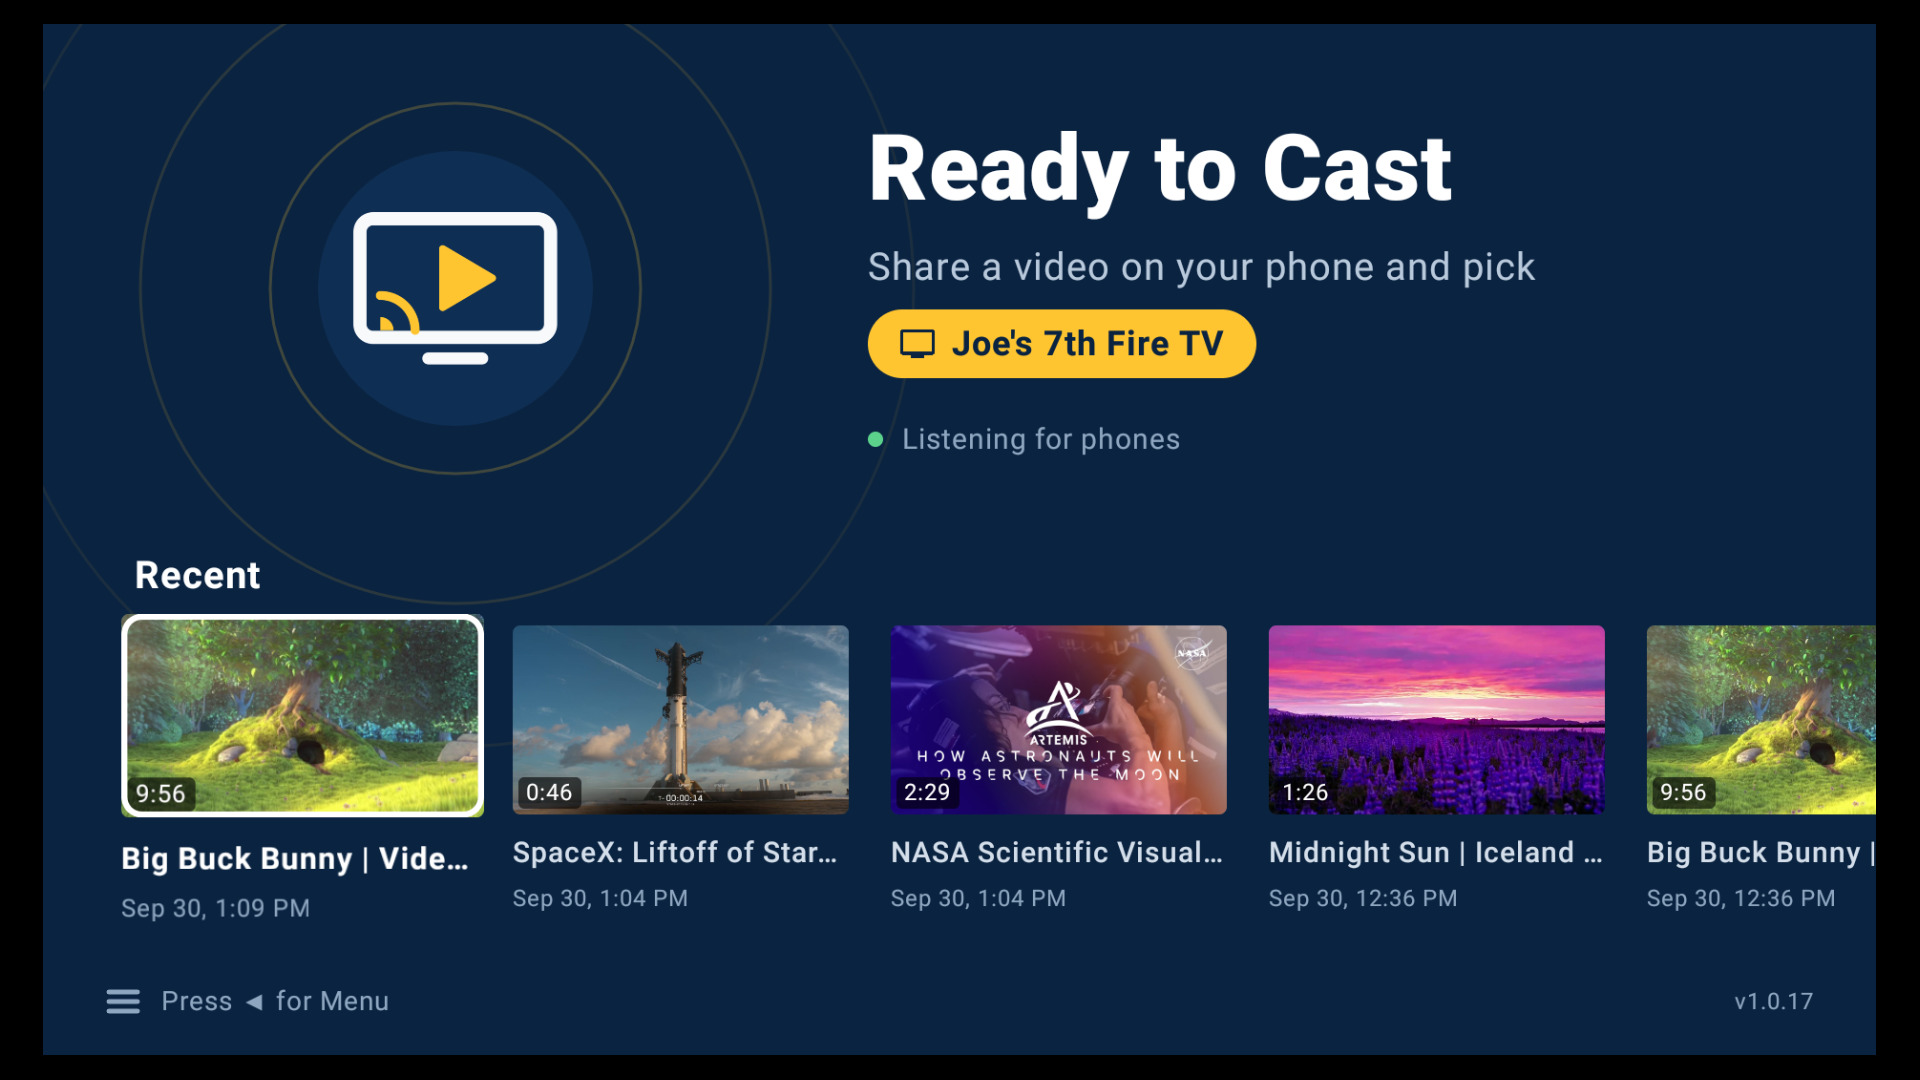
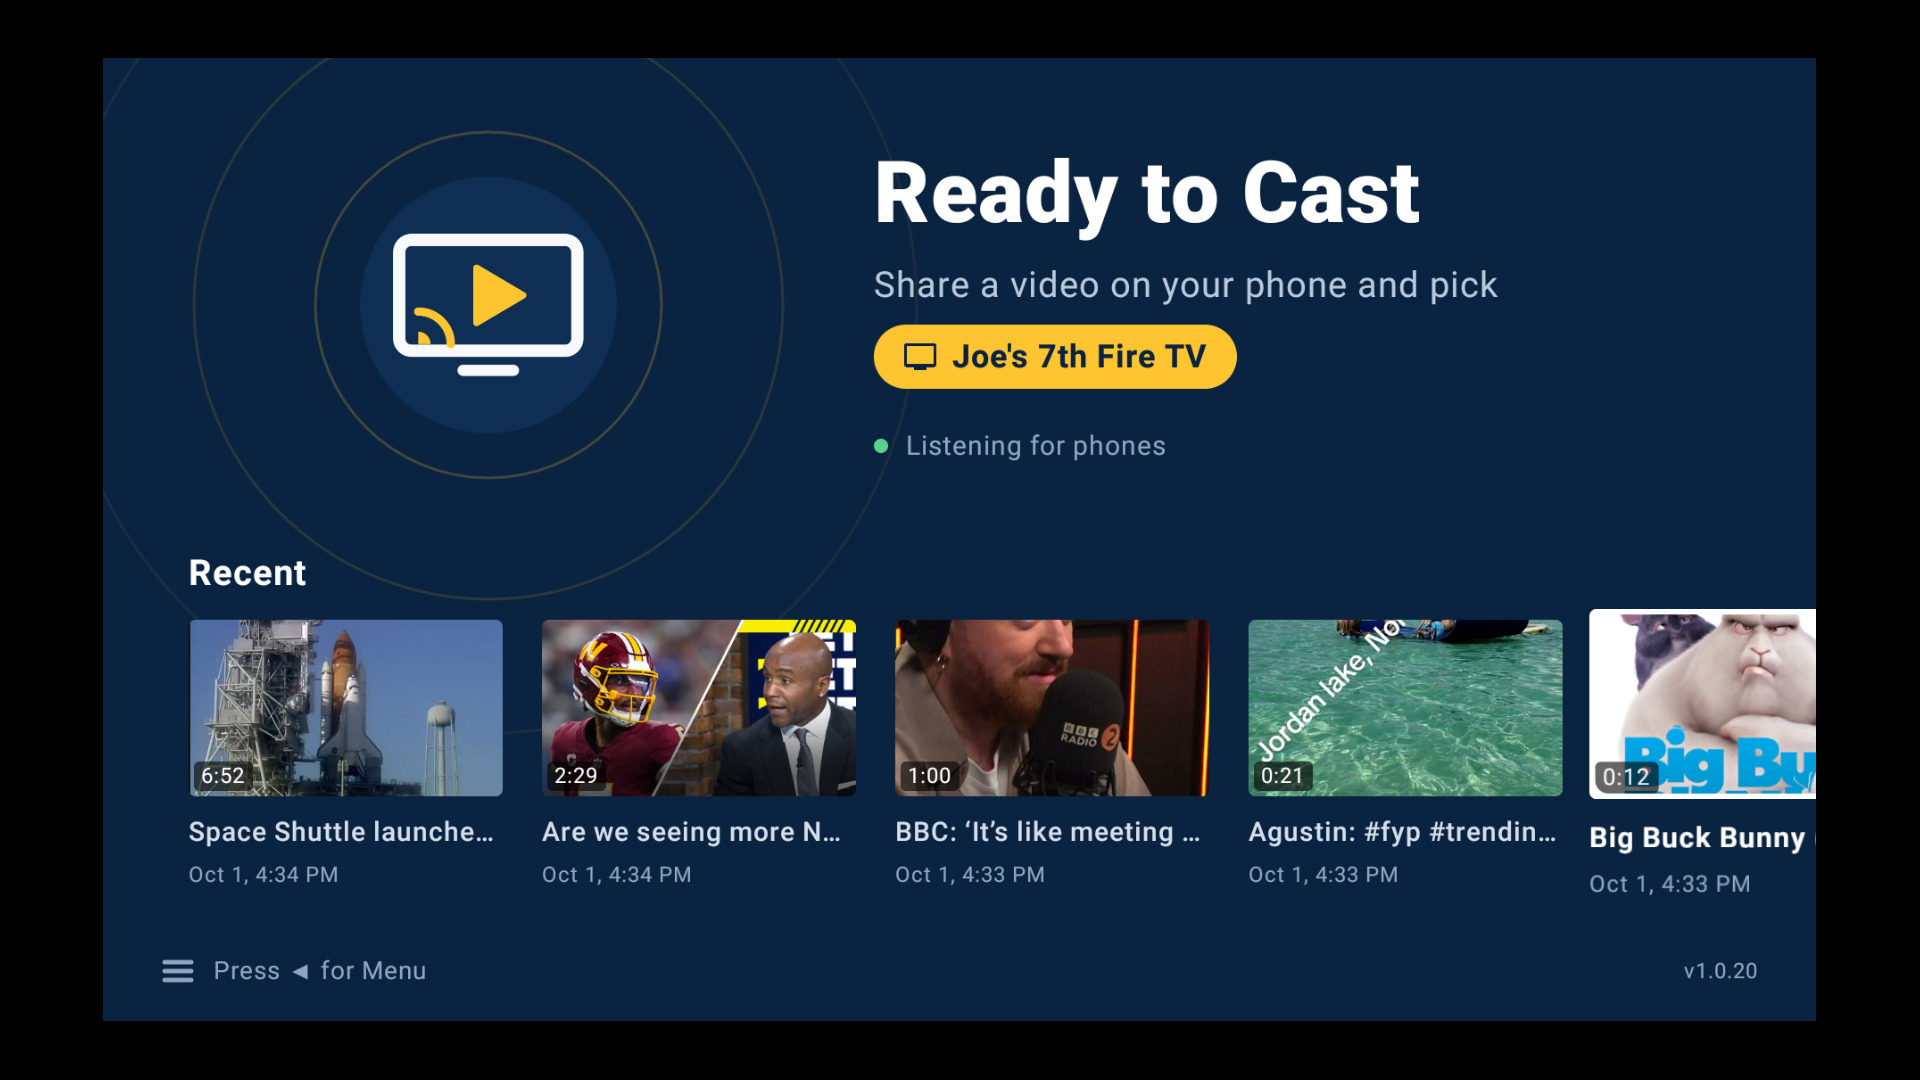
docs: sync README + privacy policy from CastToTVKMP@b5f8ff3

diff --git a/README.md b/README.md
@@ -16,11 +16,6 @@
[1 lines of base64/hex data omitted]
 [![Linux](https://img.shields.io/badge/Linux-FCC624?style=for-the-badge&logo=linux&logoColor=black)](#install-desktop)
 
-**Coming soon...** 
-
-[![iOS](https://img.shields.io/badge/iOS-8E8E93?style=for-the-badge&logo=apple&logoColor=white)](#install-coming-soon)
-[![Apple TV](https://img.shields.io/badge/Apple%20TV-8E8E93?style=for-the-badge&logo=appletv&logoColor=white)](#install-coming-soon)
-
 ---
 
 ## What is it?
@@ -28,6 +23,14 @@
 Share to TV+ is an app that lets you **share a video from any app on your phone, tablet or desktop and watch it on your TV**. 
 
 It works with Fire TV, Google TV, Android TV, Chromecast, and smart TVs with YouTube.
+
+## Why you might like it
+
+This is an app created out of a frustration I've had trying to watch videos from my phone or laptop on TV.
+
+I've got several Fire TV sticks and various Android/Google TV's. The Fire TV sticks don't support cast at all. Android TV has cast built-in, but it only works with a few apps that have a cast button. If I want to cast a video from a browser the only option I have is to cast the entire screen. But, that's more of a 'mirror' than a cast -- my laptop has to stay open and the video quality is terrible & laggy.
+
+I wanted to find an easier way. I know there are other similar apps like this one - I tried a few a while back that didn't work very well or were fairly old and not maintained as often as something like this probably needs to be. So, it made for a great project to take on and I think I have a lot I can add (see #About Me)
 
 ---
 
@@ -40,29 +43,19 @@ It works with Fire TV, Google TV, Android TV, Chromecast, and smart TVs with You
 
 ### Phone
 
-<img src="resources/screenshots/phone/promo-found.png" width="200" alt="Main Screen">
-<img src="resources/screenshots/phone/promo-recent.png" width="200" alt="Main Screen">
+<img src="androidApp/src/main/play/listings/en-US/graphics/phone-screenshots/1.png" width="200" alt="Main Screen">
+<img src="androidApp/src/main/play/listings/en-US/graphics/phone-screenshots/2.png" width="200" alt="TVs">
+<img src="androidApp/src/main/play/listings/en-US/graphics/phone-screenshots/3.png" width="200" alt="Recents">
 
 ## Video
 
 <a href="https://youtu.be/x_o01GxyRu8"><img src="resources/public/video-thumbnail.jpg" width="600" alt="Watch Share to TV+ on YouTube"></a>
 
----
-
-## How it works
-
-<img src="resources/public/what-it-does.svg" alt="Share from YouTube, TikTok, Instagram, X, Reddit, web pages or your photos; Share to TV+ finds the video and sends it to a Fire TV, Google TV, Chromecast or smart TV">
-
 </div>
+
 ---
 
-## Why you might like it
-
-You find a great video on your phone and want it on the big screen, but the app you're in has no
-cast button. Or it has one that only works with one brand of TV.
-
-**Share to TV+ fills that gap.** Share the video (or the page it's on) to Share to TV+, tap your TV, and
-it plays there. No copying links, and no hunting for the same video again on the TV's remote.
+## Features
 
 - **Works from almost any app**: anything with a **Share** button
 - **Finds the video for you**: most apps share a link to a *page*, not the video itself. Share to TV+
@@ -81,103 +74,6 @@ it plays there. No copying links, and no hunting for the same video again on the
 
 <img src="resources/public/how-to-use.svg" alt="1. In any app, tap Share and pick Share to TV+. 2. Share to TV+ finds the video; tap your TV to send it. 3. It plays on the TV, and you can pause, seek or stop it from your phone">
 
-### Set up your TV
-
-For the best results, install **Share to TV+ on your TV**. It's the same app, and on a TV it becomes
-the player that waits for videos from your phone.
-
-- **Fire TV**: install Share to TV+ on the TV and open it once. After that you never have to open
-  it yourself: sending a video opens it for you
-- **Google TV, Android TV**: install Share to TV+ on the TV. Until the Google Play version is out,
-  open it on the TV before you send (the Play version will open by itself, like Fire TV)
-- **Chromecast** (and TVs with Chromecast built in): nothing to install
-- **Other smart TVs**: nothing to install, but they can only take YouTube videos
-
-Your phone and your TV need to be on the **same Wi-Fi network**.
-
-### Every time: share, tap, watch
-
-1. **Share it.** In any app (a browser, TikTok, Instagram, Reddit, X, your gallery…) tap **Share**
-   and pick **Share to TV+**. No Share button? Copy the link and tap **+ ▸ Paste Link** in Share to TV+.
-2. **Pick a TV.** Share to TV+ finds the video on the page. If there's more than one, pick the right
-   one; each shows its length and quality, and tapping a thumbnail previews it on your phone. Then
-   tap your TV.
-3. **Watch.** It starts playing on the TV. The **Now Playing** bar at the bottom of your phone lets
-   you pause, skip back and forward, seek, mute, change the volume or stop.
-
-That's it. The TV's remote works too: play, pause and seek from the couch.
-
----
-
-## What it can do
-
-### Send almost anything
-
-- **Links from any app**, even when the app shares a whole sentence with the link buried in it
-- **Web pages**: Share to TV+ reads the page to find its video. Pages that build their player in
-  code are loaded in the background until the video shows up
-- **Your own videos**: pick one from your phone's gallery or files and it streams to the TV
-- **Short links** (like `share.google`, `bit.ly` or `t.co`) are followed to where they lead
-
-### Works with the sites you use
-
-| Site | What happens |
-|---|---|
-| **YouTube** | Opens in the TV's YouTube app (or Smarttube if installed) |
-| **Netflix, Prime Video, Disney+, Max, Hulu, Peacock, Paramount+, Apple TV, Plex, Tubi, Pluto TV, Crunchyroll, Twitch** | Opens in that app on the TV, on the show or movie where it can |
-| **TikTok** | Plays on the TV |
-| **Instagram & Facebook** | Reels and videos play with sound. Instagram, and private Facebook posts, need you to sign in once in **Settings ▸ Signed-In Sites** |
-| **X / Twitter** | Plays at the best quality the post has |
-| **Reddit** | Plays with sound |
-| **Everything else** | Share to TV+ looks for the video on the page and lists what it finds |
-
-### Finds your TVs by itself
-
-- Every TV on your Wi-Fi shows up on its own. There's nothing to pair or type in
-- Each TV shows the streaming apps it has (YouTube, Netflix, Prime Video, Disney+, Hulu, Max…)
-- TVs you've sent to before sit at the top, and they show up as soon as the app opens
-- Devices that can't play anything are tucked away under **Other Devices**
-- Long-press a TV to see its details: model, maker, IP address and apps
-
-### Remembers what you shared
-
-- **Recent** keeps the last 20 things you shared, with thumbnails and lengths. Tap one to send it
-  again
-- On the TV, press **◀** on the remote for a menu with its own **Recent** list, to replay what was
-  sent to it
-
-### Relays when it has to
-
-Some videos only play for the app that asked for them, and a phone's gallery isn't something a TV
-can reach. For those, your phone passes the video along to the TV as it plays. You'll see a
-notification while it does, and Share to TV+ tells you when to keep your phone on and nearby.
-
----
-
-## Which TVs work
-
-| TV | What you need | What you can send |
-|---|---|---|
-| **Fire TV** | Share to TV+ installed on the TV | Everything, plus it opens by itself when you send |
-| **Google TV / Android TV** | Share to TV+ installed on the TV | Everything. Open the app on the TV first until the Play version is out |
-| **Chromecast** & TVs with Chromecast built in | Nothing | Video links and YouTube |
-| **Other smart TVs** with YouTube | Nothing | YouTube videos |
-| **Apple TV, Roku** | | Not yet |
-
-**Sending from:** Android phones and tablets, and desktop (Mac, Windows, Linux). On desktop,
-Share to TV+ uses your Chrome or Edge in the background for pages that need it, and to sign in to
-Instagram and Facebook. iPhone and iPad are on the way.
-
----
-
-## Your privacy
-
-- **No account, no sign-up.** Open it and go.
-- **Nothing goes through a server of ours.** The video goes from the site to your TV, or through
-  your own phone when it's relayed.
-- **Sign-ins stay on your phone.** If you sign in to Instagram or Facebook, that's between your phone
-  and them. Sign out any time in **Settings ▸ Signed-In Sites**.
-
 ---
 
 <a id="install-section"></a>
@@ -188,35 +84,35 @@ Share to TV+ is **free** on GitHub today. It's the same APK for phones, tablets 
 updates itself: you'll be told in the app when there's a new version.
 
 <a name="install-android"></a>
-<h2>Android phone / tablet</h2>
+<h3>Android phone / tablet</h3>
 
 - Download [**ShareToTV.apk**](https://github.com/jpage4500/ShareToTV/releases/download/android/ShareToTV.apk)
   on the phone and open it. Android asks once to allow installs from your browser
 
 <a name="install-tv"></a>
-<h2>Fire TV / Google TV / Android TV</h2>
+<h3>Fire TV / Google TV / Android TV</h3>
 
 1. Install the **Downloader** app on the TV (search for it in the TV's app store)
 2. Fire TV only: let Downloader install apps in **Settings ▸ My Fire TV ▸ Developer Options**
-3. In Downloader, enter
-   `https://github.com/jpage4500/ShareToTV/releases/download/android/ShareToTV.apk`
-   and install it
+3. In Downloader, enter code `8355506` to download and install
 
-That link always gets the newest version.
+Or, just download and install the same apk as the phone: [**ShareToTV.apk**](https://github.com/jpage4500/ShareToTV/releases/download/android/ShareToTV.apk)
 
 <a name="install-desktop"></a>
-<h2>Desktop (Mac / Windows / Linux)</h2>
+<h3>Desktop (Mac / Windows / Linux)</h3>
 
 - [GitHub release page](https://github.com/jpage4500/ShareToTV/releases/latest): pick the installer
   for your computer. The desktop app updates itself when a new version comes out
+- Optionally install the Chrome extension (coming soon) which will send the current link to the app, saving a step
 
 <a name="install-coming-soon"></a>
-<h2>Coming soon</h2>
-
-- **Google Play** (phones and Google TV / Android TV), the **Amazon Appstore** (Fire TV) and the
-  **App Store** (iPhone and iPad)
+<h3>Coming soon</h3>
+- **Google Play** (phones and Google TV / Android TV)
+- **Amazon Appstore** (Fire TV)
+- **App Store** (iPhone and iPad)
 - **Apple TV** support
-- The store versions may come with a small one-time purchase. The GitHub version will stay free but donations are appreciated.
+
+The store versions may come with a small one-time purchase. The GitHub version will stay free for now. Donations are  much appreciated - [PayPal](https://www.paypal.com/paypalme/jpage4500) or [Venmo](https://www.venmo.com/u/jpage4500)
 
 ---
 
